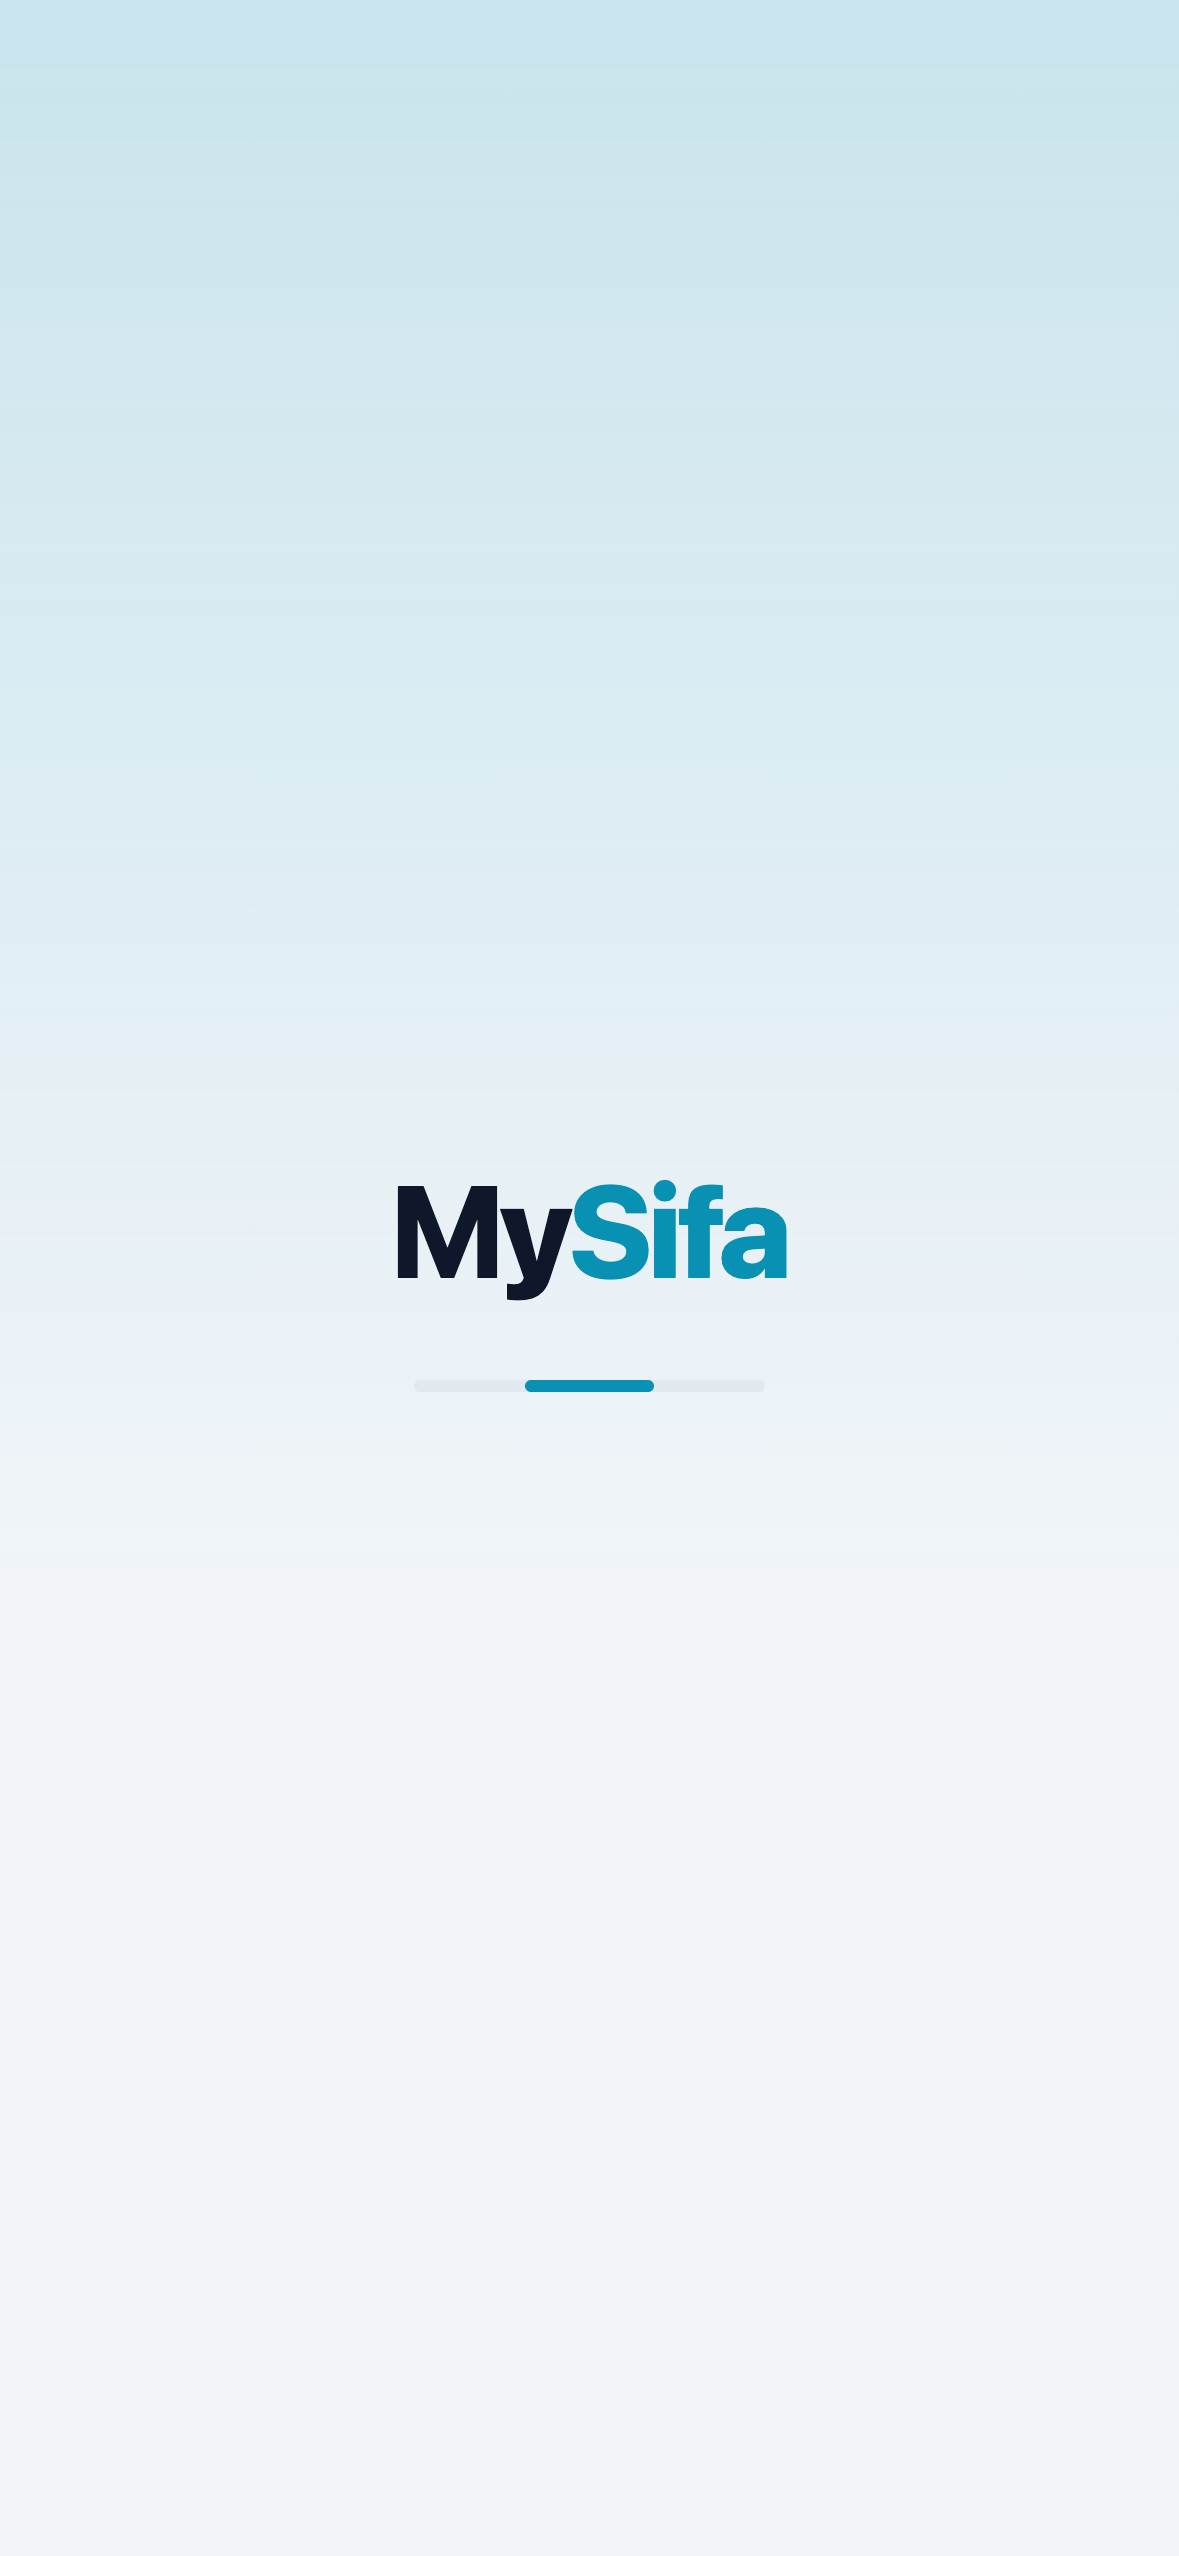
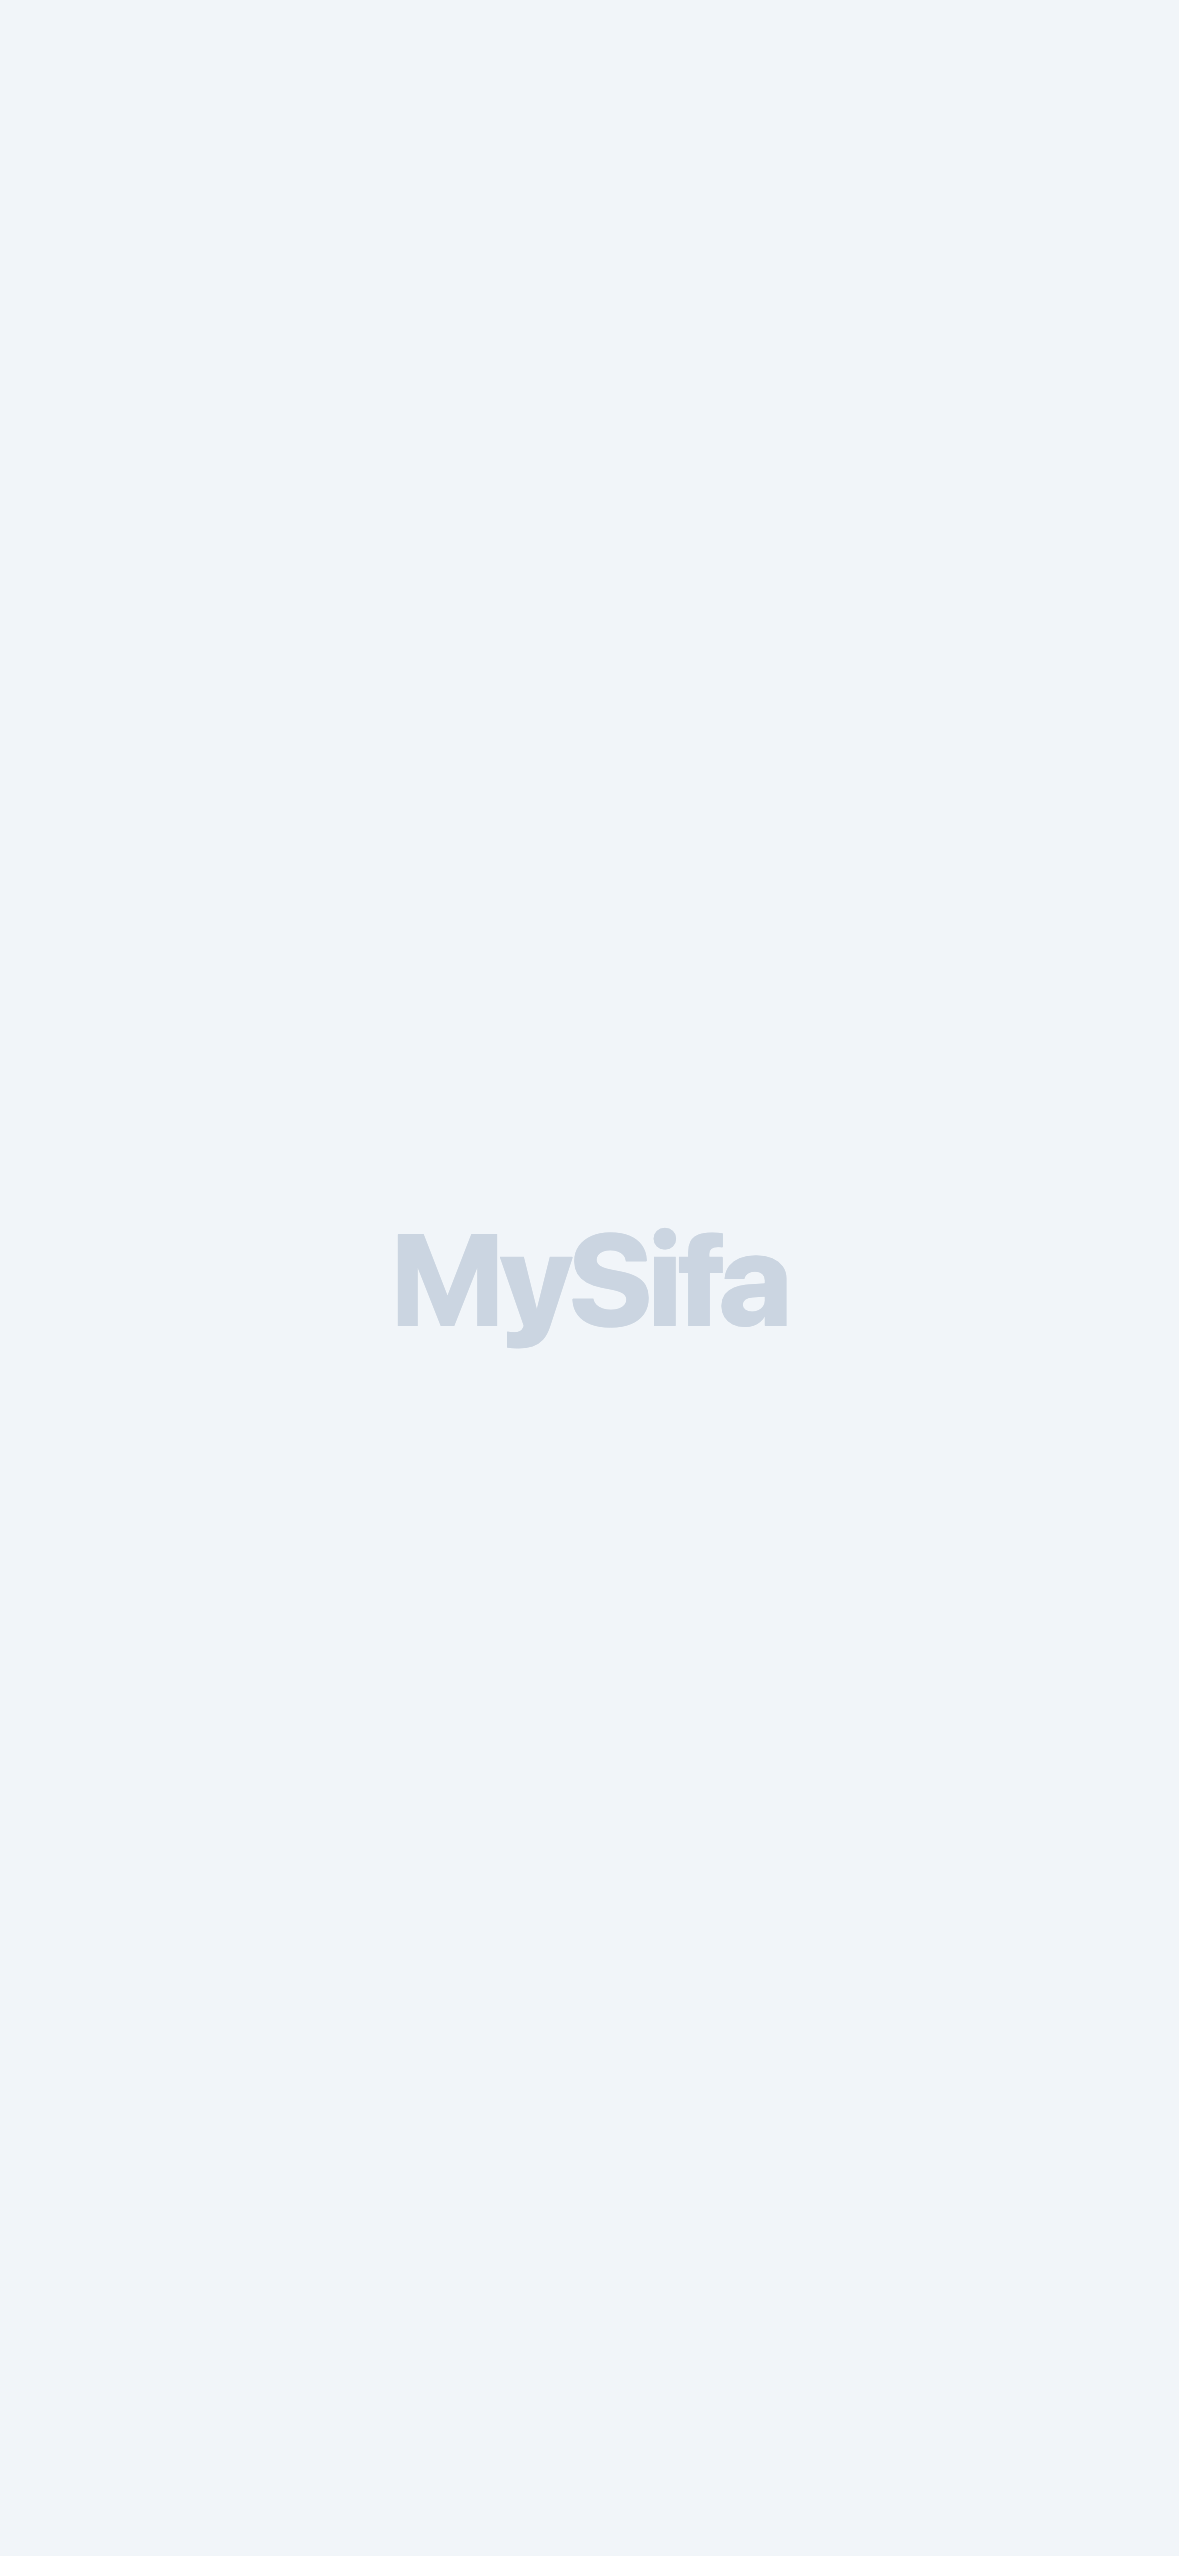
Mobile : ecran de chargement des le toucher, barre fluide, images de demarrage neutres

Changed region(s): [[0.0, 0.0, 1.0, 0.2473], [0.3359, 0.4636, 0.6718, 0.5563]]

diff --git a/static/mysifa_largeur_mobile.js b/static/mysifa_largeur_mobile.js
@@ -111,15 +111,25 @@
   }
 
   var prevu = null;
+  var dernier = 0;
   function planifier() {
-    if (prevu) return;
-    // Juste avant que le navigateur peigne ce qui vient de changer.
-    prevu = requestAnimationFrame(function () {
-      prevu = null;
-      controler();
-    });
+    // Page en construction : l'écran de chargement la cache, et mesurer à chaque image
+    // la ralentirait. Le contrôle se fait à la fin de la construction.
+    if (prevu || document.readyState === 'loading') return;
+    var attente = Math.max(0, 120 - (Date.now() - dernier));
+    var lancer = function () {
+      // Juste avant que le navigateur peigne ce qui vient de changer.
+      prevu = requestAnimationFrame(function () {
+        prevu = null;
+        dernier = Date.now();
+        controler();
+      });
+    };
+    if (attente) { prevu = -1; setTimeout(function () { prevu = null; lancer(); }, attente); }
+    else lancer();
   }
 
   new MutationObserver(planifier).observe(document.documentElement, { childList: true, subtree: true });
+  document.addEventListener('DOMContentLoaded', planifier);
   window.addEventListener('resize', planifier);
 })();

diff --git a/app/services/ecran_chargement.py b/app/services/ecran_chargement.py
@@ -9,8 +9,11 @@ page : `main.py` le pose partout.
 Quand il s'affiche, sous 900 px seulement :
 
 - à l'ouverture de l'app ou à un rechargement : tout de suite ;
-- en passant d'une appli à l'autre : après 250 ms, pour ne pas clignoter quand la
-  page est rapide. En attendant, le fond a déjà la couleur du thème, jamais blanc.
+- en passant d'une appli à l'autre : dès le toucher (tuile, bouton Accueil, lien),
+  sur la page qu'on quitte, puis tout de suite sur la suivante. Sinon, rien ne bouge
+  entre le toucher et la réponse du serveur, et l'app paraît ne pas avoir réagi ;
+- pour une navigation qu'on n'a pas vu partir : après 250 ms, pour ne pas clignoter
+  quand la page est rapide. En attendant, le fond a déjà la couleur du thème.
 
 Les changements d'onglet et les actualisations ne rechargent pas la page : ils ne
 passent pas par ici. Au bout de 10 s, il propose de réessayer ; au bout de 20 s, il
@@ -80,11 +83,13 @@ _STYLE = (
     "#msf-charge .w{font-size:min(11vw,44px);font-weight:800;letter-spacing:-.037em;line-height:1;color:var(--c-x)}"
     "#msf-charge .w span{color:var(--c-a)}"
     "#msf-charge .tr{position:relative;width:min(30vw,120px);height:4px;border-radius:2px;background:var(--c-l);overflow:hidden}"
-    "#msf-charge .tr i{position:absolute;top:0;bottom:0;left:-36%;width:36%;border-radius:2px;background:var(--c-a);"
-    "animation:msf-charge-barre 1.25s ease-in-out infinite}"
-    "@keyframes msf-charge-barre{0%{left:-36%}100%{left:100%}}"
-    "html.perf-eco #msf-charge .tr i,html.reduce-anim #msf-charge .tr i{animation:none;left:32%}"
-    "@media (prefers-reduced-motion:reduce){#msf-charge .tr i{animation:none;left:32%}}"
+    # transform et pas left : l'animation tourne hors du fil principal, elle reste fluide
+    # pendant que la page lit son code, ce qui est justement le moment où on la voit.
+    "#msf-charge .tr i{position:absolute;top:0;bottom:0;left:0;width:36%;border-radius:2px;background:var(--c-a);"
+    "transform:translateX(-100%);will-change:transform;animation:msf-charge-barre 1.25s ease-in-out infinite}"
+    "@keyframes msf-charge-barre{from{transform:translateX(-100%)}to{transform:translateX(278%)}}"
+    "html.perf-eco #msf-charge .tr i,html.reduce-anim #msf-charge .tr i{animation:none;transform:translateX(90%)}"
+    "@media (prefers-reduced-motion:reduce){#msf-charge .tr i{animation:none;transform:translateX(90%)}}"
     "#msf-charge .lent{position:absolute;left:24px;right:24px;bottom:max(64px,env(safe-area-inset-bottom,0px));"
     "display:flex;flex-direction:column;align-items:center;gap:12px;font-size:14px;text-align:center;color:var(--c-x)}"
     "#msf-charge .lent[hidden]{display:none}"
@@ -114,19 +119,37 @@ h.appendChild(el);}
 function masquer(){if(fini)return;fini=true;clearInterval(v);clearTimeout(a);h.style.backgroundColor='';
 if(el){el.classList.add('fin');var e=el;setTimeout(function(){e.remove();},200);}}
 var nav=performance.getEntriesByType&&performance.getEntriesByType('navigation')[0];
-var interne=false;try{interne=!!document.referrer&&new URL(document.referrer).origin===location.origin&&(!nav||nav.type==='navigate');}catch(e){}
+var interne=false;try{interne=!!document.referrer&&new URL(document.referrer).origin===location.origin&&(!nav||nav.type==='navigate');
+var t=sessionStorage.getItem('msf_charge_nav');if(t&&Date.now()-t<6000)interne=false;sessionStorage.removeItem('msf_charge_nav');}catch(e){}
 var a=setTimeout(montrer,interne?250:0);if(!interne)montrer();
 addEventListener('load',function(){charge=true;});
 var v=setInterval(function(){if(pret())masquer();},50);
 setTimeout(function(){if(!fini&&el)el.querySelector('.lent').hidden=false;},10000);
 setTimeout(masquer,20000);
 addEventListener('pageshow',function(e){if(e.persisted)masquer();});
+// Toucher qui va changer de page : l'écran part de la page qu'on quitte.
+function quitte(n){if(n.closest('.portal-app--busy,.portal-app--disabled,.portal-app--placeholder'))return false;
+try{if(typeof _portalDragSuppressClick!=='undefined'&&_portalDragSuppressClick)return false;}catch(e){}
+if(n.matches('a[href]')){if(n.hasAttribute('download')||(n.target&&n.target!=='_self'))return false;
+var u=new URL(n.href,location.href);return u.origin===location.origin&&(u.protocol==='http:'||u.protocol==='https:')&&(u.pathname!==location.pathname)&&u.pathname.indexOf('/api/')!==0;}
+if(n.matches('.mobile-home-btn'))return location.pathname!=='/';
+return true;}
+// Après les gestionnaires de la page : un lien repris par son routeur (MyCoûts, ERP)
+// a annulé le clic, et ne change pas de page.
+document.addEventListener('click',function(e){if(e.defaultPrevented&&!(e.target.closest&&e.target.closest('.portal-app,.mobile-home-btn')))return;
+var n=e.target.closest&&e.target.closest('a[href],.mobile-home-btn,.portal-app[data-portal-id],.portal-vol-item,.portal-atraiter .msf-row,.portal-mach,[onclick*="location.href"]');
+if(!n||!quitte(n))return;if(n.closest('.portal-apps-block--glisse'))return;
+try{sessionStorage.setItem('msf_charge_nav',String(Date.now()));}catch(err){}
+fini=false;el=null;h.style.backgroundColor=c.bg;montrer();
+// La page n'a finalement pas changé : l'écran ne reste pas.
+setTimeout(masquer,8000);});
 })();"""
 
 
 # Écrans d'iPhone : (largeur, hauteur, densité). iOS ne prend l'image que si la taille
 # correspond exactement ; les images sont dans static/demarrage/, en clair et en sombre.
-# iOS ne connaît pas la palette à ce stade : elles sont aux couleurs par défaut.
+# iOS ne connaît pas la palette à ce stade : elles sont neutres (logo d'une seule teinte,
+# sans dégradé), pour ne pas annoncer un thème qui n'est pas forcément celui de la personne.
 _IPHONES = (
     (320, 568, 2), (375, 667, 2), (414, 736, 3), (375, 812, 3), (414, 896, 2), (414, 896, 3),
     (360, 780, 3), (390, 844, 3), (393, 852, 3), (428, 926, 3), (430, 932, 3), (402, 874, 3),
@@ -146,7 +169,7 @@ def images_demarrage() -> bytes:
         for nom, mode in (("clair", "light"), ("sombre", "dark")):
             balises.append(
                 f'<link rel="apple-touch-startup-image" media="{ecran} and (prefers-color-scheme:{mode})" '
-                f'href="/static/demarrage/{w * r}x{h * r}_{nom}.png">'
+                f'href="/static/demarrage/{w * r}x{h * r}_{nom}.png?v=2">'
             )
     return "".join(balises).encode("utf-8")
 

diff --git a/main.py b/main.py
@@ -666,7 +666,7 @@ _TACHE_QUICK_TAG = b'<script src="/static/mysifa_tache_quick.js?v=5" defer></scr
 _BLOCS_TAG = f'<script src="/static/mysifa_blocs.js?v={APP_VERSION}" defer></script>'.encode()
 # Téléphone : aucune page ne déborde en largeur. Toutes les pages, y compris celles
 # qui n'ont pas les boutons flottants (MyRH).
-_LARGEUR_TAG = b'<script src="/static/mysifa_largeur_mobile.js?v=2"></script>'
+_LARGEUR_TAG = b'<script src="/static/mysifa_largeur_mobile.js?v=3"></script>'
 _BODY_CLOSE_RE = re.compile(rb"</body>", re.IGNORECASE)
 _HEAD_OPEN_RE = re.compile(rb"<head(?:\s[^>]*)?>", re.IGNORECASE)
 

diff --git a/.claude/rules/frontend-comportement.md b/.claude/rules/frontend-comportement.md
@@ -113,7 +113,7 @@ rangée de boutons, un `overflow-x:auto` autour d'un tableau large.
 pages : logo et barre sur un dégradé du thème, à l'ouverture et entre deux applis. Il se
 retire dès que `.portal-page` ou `.mobile-topbar` existe et que `#root` n'est plus vide.
 Une page sans ces repères le garde jusqu'à la fin de son chargement. Changer le logo ou
-les couleurs par défaut impose de refaire les images de `static/demarrage/`.
+le fond par défaut impose de refaire les images, neutres, de `static/demarrage/`.
 
 ### Liens de navigation
 Toujours inclure les liens vers les modules auxquels l'utilisateur a accès (vérifiés via le contexte de session). La cohérence des icônes entre pages est obligatoire — si un module utilise un certain SVG dans une page, il doit utiliser le même dans toutes les autres.
